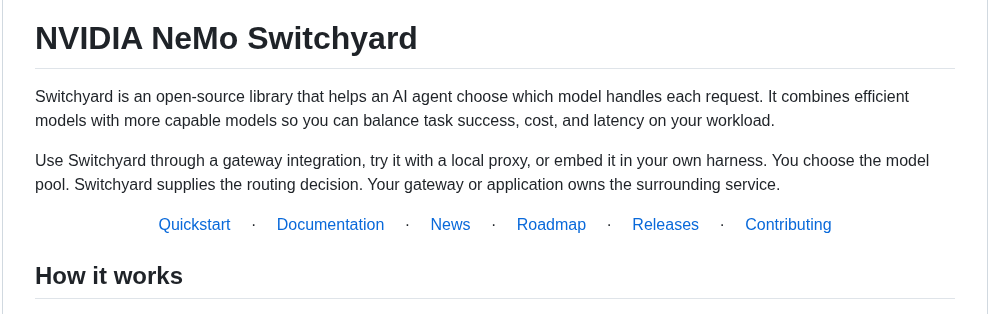
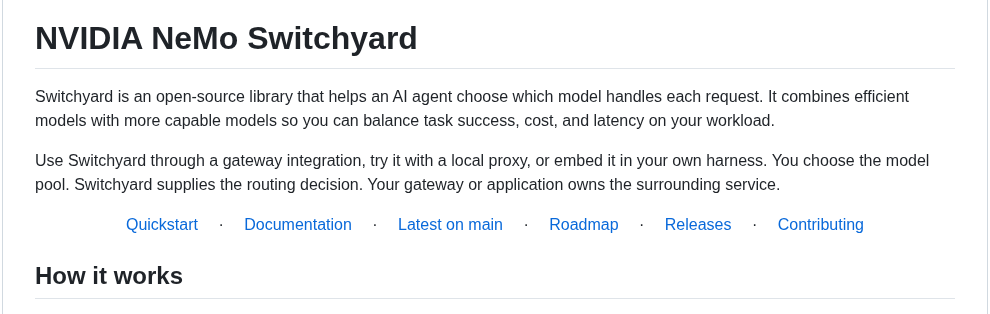
docs(readme): refresh latest on main previews

Changed region(s): [[0.1212, 0.6879, 0.8788, 0.7452]]

diff --git a/README.md b/README.md
@@ -11,7 +11,7 @@ Use Switchyard through a gateway integration, try it with a local proxy, or embe
 <p align="center">
   <a href="docs/getting_started.md">Quickstart</a> &emsp;·&emsp;
   <a href="https://nvidia-nemo.github.io/Switchyard/">Documentation</a> &emsp;·&emsp;
-  <a href="#latest-news">News</a> &emsp;·&emsp;
+  <a href="#latest-on-main">Latest on main</a> &emsp;·&emsp;
   <a href="https://github.com/NVIDIA-NeMo/Switchyard/issues/1026">Roadmap</a> &emsp;·&emsp;
   <a href="https://github.com/NVIDIA-NeMo/Switchyard/releases">Releases</a> &emsp;·&emsp;
   <a href="CONTRIBUTING.md">Contributing</a>
@@ -53,7 +53,9 @@ Agent-specific guides are available for [pi](docs/integrations/pi.md) and
 
 [Embed the library in your harness](docs/getting_started.md#library-path) to run routing inside your Rust application. For Python, see the [embedding example](examples/libsy.py).
 
-## Latest News
+## Latest on main
+
+New features and integrations merged into `main`.
 
 - **2026-10-16 · Route between Sonnet and Opus in Claude Code**\
   Use your Claude login for automatic routing on Linux x86_64 and see the selected model in the status line. [Setup guide →](examples/claude/README.md)
